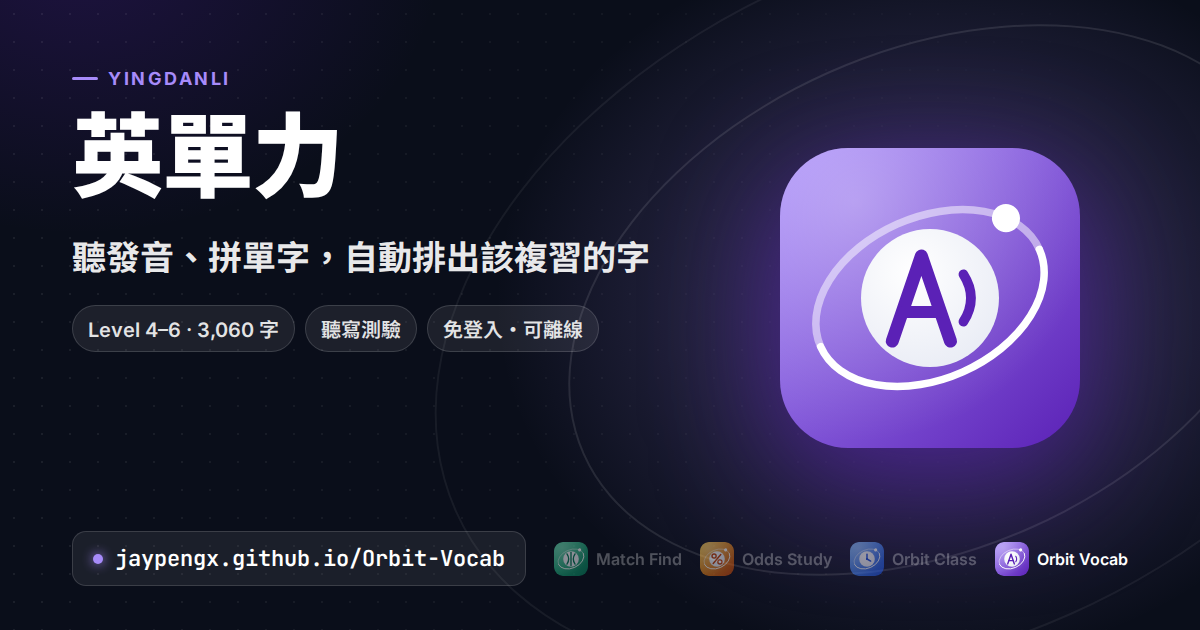
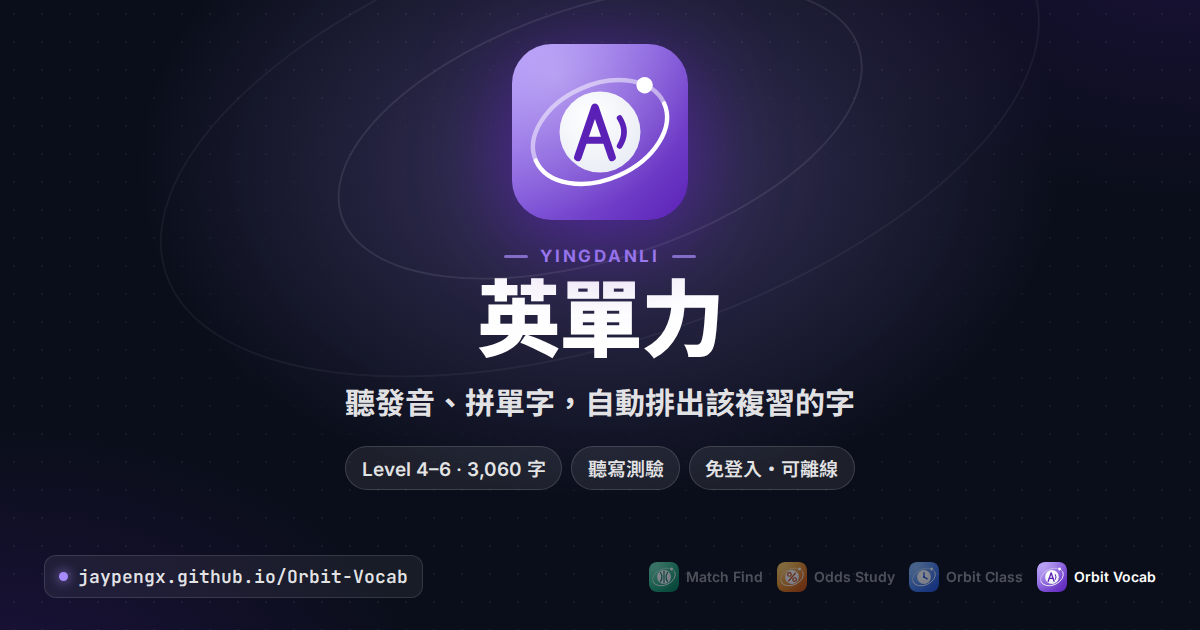
Make link previews work at thumbnail size too
Many apps (WhatsApp, Telegram, LINE, iMessage, Slack's compact view) don't show the wide card - they crop its middle to a small square. The wide card is now laid out around its center, so that crop still shows the icon and the app name; the URL and the app family strip sit in the outer corners.

Adds a 1200x1200 square card as a second og:image for platforms that pick a square image, plus og:image:alt / twitter:image:alt text.

Claude-Session: https://claude.ai/code/session_011gRUGYTdy3QH8ZGKD1vFqq

diff --git a/index.html b/index.html
@@ -23,10 +23,16 @@
 <meta property="og:image" content="https://jaypengx.github.io/Orbit-Vocab/assets/og-card.png">
 <meta property="og:image:width" content="1200">
 <meta property="og:image:height" content="630">
+<meta property="og:image:alt" content="英單力 YingDanLi">
+<meta property="og:image" content="https://jaypengx.github.io/Orbit-Vocab/assets/og-card-square.png">
+<meta property="og:image:width" content="1200">
+<meta property="og:image:height" content="1200">
+<meta property="og:image:alt" content="英單力 YingDanLi">
 <meta name="twitter:card" content="summary_large_image">
 <meta name="twitter:title" content="英單力 YingDanLi｜高中英文單字聽寫測驗">
 <meta name="twitter:description" content="聽發音、拼單字，系統依你的反應時間與答錯紀錄自動排出該複習的字。Level 4–6 共 3,060 字，免安裝、免登入，可加到主畫面離線使用。">
 <meta name="twitter:image" content="https://jaypengx.github.io/Orbit-Vocab/assets/og-card.png">
+<meta name="twitter:image:alt" content="英單力 YingDanLi">
 <link rel="stylesheet" href="style.css?v=__BUILD_VERSION__" />
 </head>
 <body>
